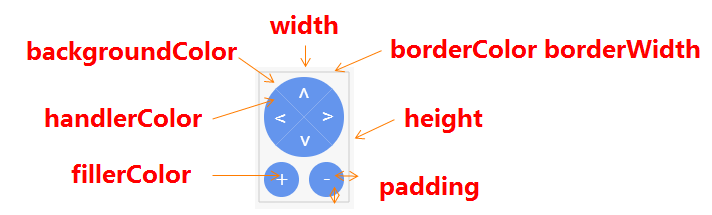
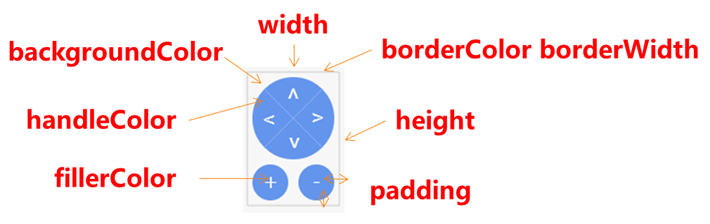
roamController handleColor fixed

Changed region(s): [[0.0, 0.1674, 0.6817, 0.9488], [0.4028, 0.1674, 0.9915, 0.3628], [0.3408, 0.0558, 0.4958, 0.1674]]

diff --git a/src/component/roamController.js b/src/component/roamController.js
@@ -95,7 +95,7 @@ define(function (require) {
                     r: r,          // 圆环外半径
                     startAngle: -45,
                     endAngle: 45,
-                    color: this.rcOption.handlerColor,
+                    color: this.rcOption.handleColor,
                     text: '>',
                     textX: x + r / 2 + 4,
                     textY: y - 0.5,
@@ -106,7 +106,7 @@ define(function (require) {
                     textFont: Math.floor(r / 2) + 'px arial'
                 },
                 highlightStyle: {
-                    color: zrColor.lift(this.rcOption.handlerColor, -0.2),
+                    color: zrColor.lift(this.rcOption.handleColor, -0.2),
                     brushType: 'fill'
                 },
                 clickable: true
@@ -149,7 +149,7 @@ define(function (require) {
                     x: x,
                     y: y,
                     r: r,
-                    color: this.rcOption.handlerColor,
+                    color: this.rcOption.handleColor,
                     text: text === 'scaleDown' ? '-' : '+',
                     textX: x,
                     textY: y - 2,
@@ -160,7 +160,7 @@ define(function (require) {
                     textFont: Math.floor(r) + 'px verdana'
                 },
                 highlightStyle: {
-                    color: zrColor.lift(this.rcOption.handlerColor, -0.2),
+                    color: zrColor.lift(this.rcOption.handleColor, -0.2),
                     brushType: 'fill'
                 },
                 clickable: true

diff --git a/src/config.js b/src/config.js
@@ -21,6 +21,7 @@ define(function() {
         CHART_TYPE_CHORD: 'chord',
         CHART_TYPE_GAUGE: 'gauge',
         CHART_TYPE_FUNNEL: 'funnel',
+        CHART_TYPE_EVENTRIVER: 'eventRiver',
 
         // 组件类型
         COMPONENT_TYPE_TITLE: 'title',
@@ -518,7 +519,7 @@ define(function() {
             borderWidth: 0,            // 图例边框线宽，单位px，默认为0（无边框）
             padding: 5,                // 图例内边距，单位px，默认各方向内边距为5，
                                        // 接受数组分别设定上右下左边距，同css
-            handlerColor: '#6495ed',
+            handleColor: '#6495ed',
             fillerColor: '#fff',
             step: 15,                  // 移动幅度
             mapTypeControl: null
@@ -1093,6 +1094,10 @@ define(function() {
                     }
                 }
             }
+        },
+        
+        eventRiver: {
+            
         },
         
         island: {
